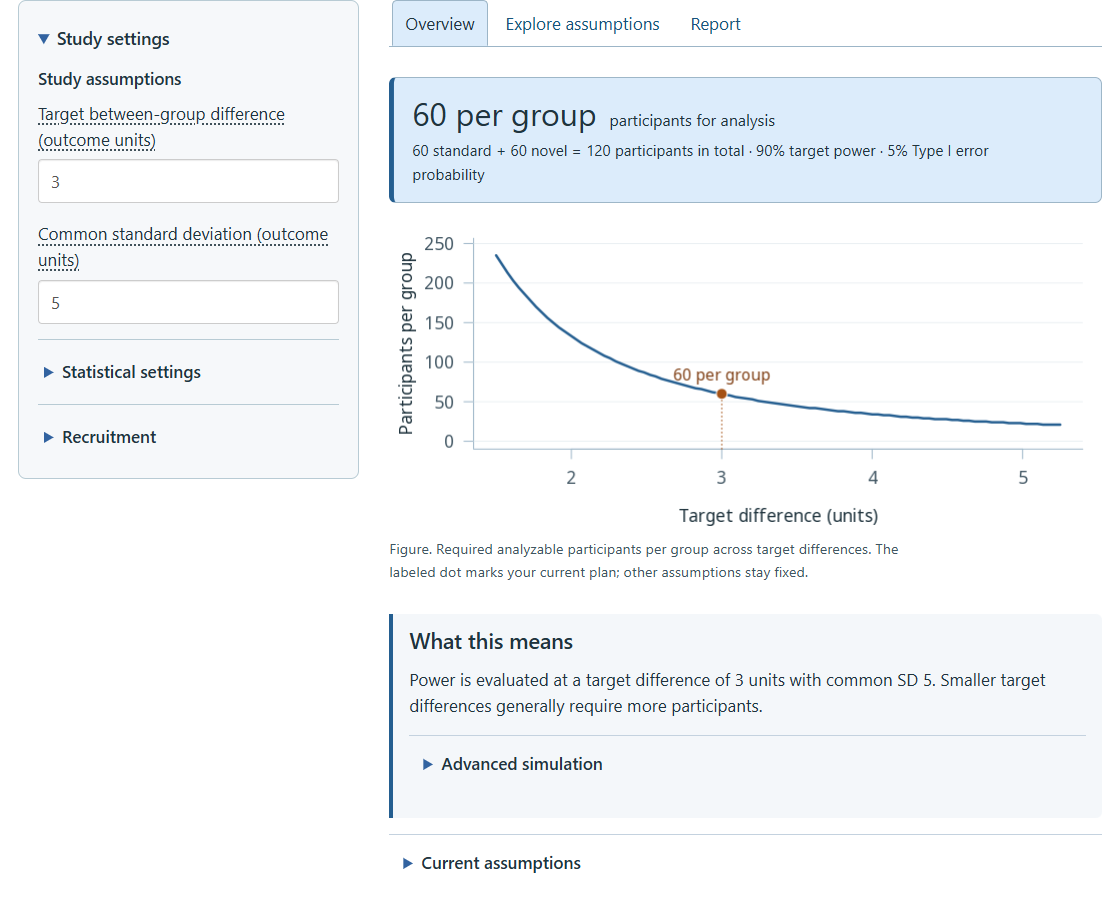
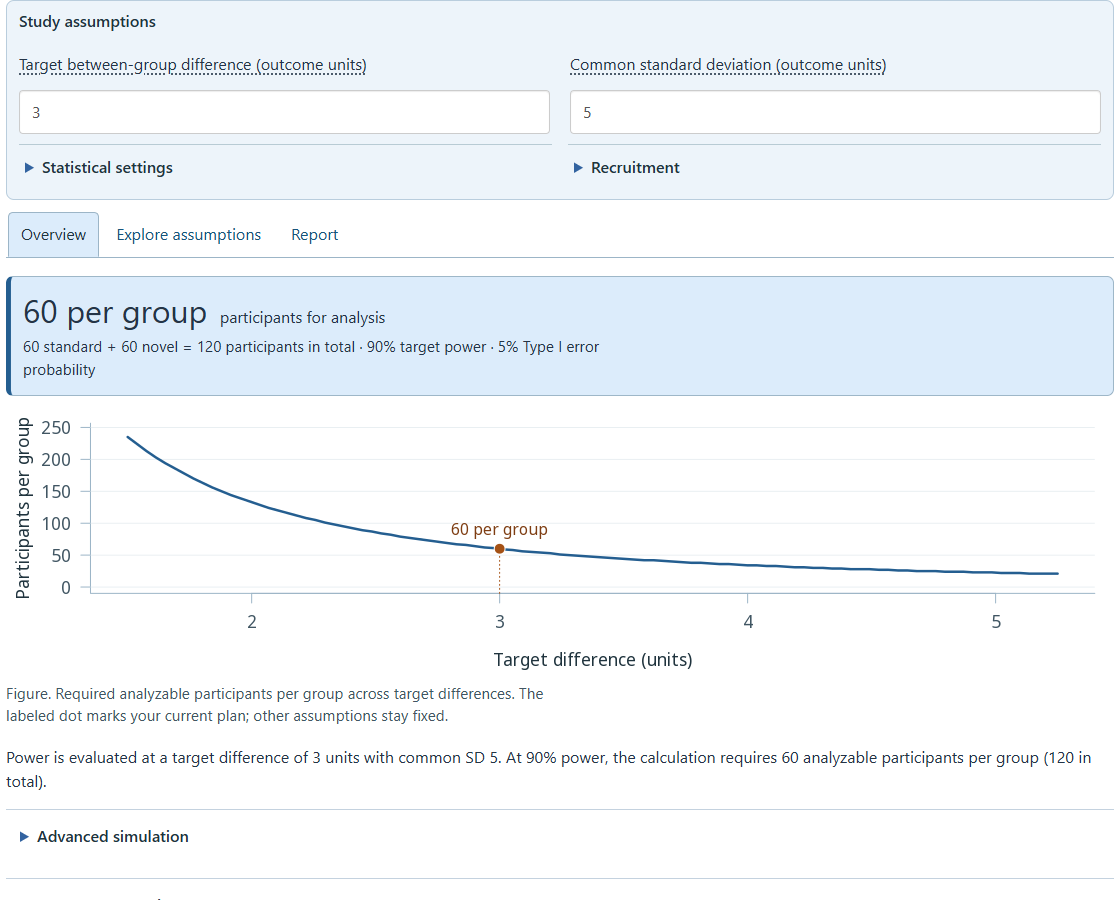
Embed remaining calculators with compact controls and reactive results

diff --git a/site/inline-app-client.js b/site/inline-app-client.js
@@ -1,11 +1,12 @@
-/* Compact presentation and intrinsic height for the two tutorial embeds. MIT. */
+/* Compact presentation and intrinsic height for the tutorial's Shiny apps. MIT. */
 (() => {
-  let shell = window, host = null, origin = null, embedded = false;
+  let shell = window, host = null, origin = null, embedded = false, engine = '';
   try {
     while (shell) {
       const url = new URL(shell.location.href);
-      if (url.searchParams.get('embedded') === '1' &&
-          /\/(two_proportions|power_explorer)\/(?:index\.html)?$/.test(url.pathname)) {
+      const match = url.pathname.match(/\/(two_proportions|two_means|power_explorer|dropout_adjustment|prevalence_precision|sampling_distributions)\/(?:index\.html)?$/);
+      if (url.searchParams.get('embedded') === '1' && match) {
+        engine = match[1];
         embedded = true; origin = url.origin;
         if (shell !== shell.parent && shell.frameElement?.hasAttribute('data-inline-frame')) host = shell.parent;
         break;
@@ -16,6 +17,7 @@
   } catch (_) { /* The normal standalone app remains available. */ }
   if (!embedded) return;
   document.documentElement.classList.add('tutorial-embedded');
+  document.documentElement.dataset.inlineEngine = engine;
   const send = payload => { if (host) host.postMessage({type: 'sample-size:inline', ...payload}, origin); };
   let pending, previous = 0, ready = false;
   function measure() {
@@ -30,9 +32,57 @@
     }, 100);
   }
   function init() {
+    compactControls();
     const content = document.querySelector('body > .container-fluid');
     if (content) new ResizeObserver(measure).observe(content);
     measure();
+  }
+  function compactControls() {
+    // Move existing controls, preserving their Shiny bindings and help. The
+    // numerical procedures and the dedicated-page layouts are unchanged.
+    const well = document.querySelector('.well');
+    if (!well || well.dataset.inlineOrganized) return;
+    well.dataset.inlineOrganized = 'true';
+    const field = id => {
+      const input = document.getElementById(id);
+      // The wrapper carries percentage units for the slider and number field.
+      return input?.closest('.percentage-slider') || input?.closest('.shiny-input-container');
+    };
+    if (engine === 'prevalence_precision') {
+      const more = document.createElement('details'); more.className = 'inline-secondary';
+      const heading = document.createElement('summary'); heading.textContent = 'Example and planning goal';
+      more.append(heading);
+      for (const node of [field('case_id'), document.getElementById('load_case'), field('goal')]) if (node) more.append(node);
+      well.append(more);
+    }
+    if (engine === 'sampling_distributions') {
+      const assumptions = well.querySelector('section.app-input-group');
+      const settings = well.querySelector('details.app-input-group');
+      if (settings && assumptions) {
+        for (const node of [document.getElementById('load_case'), field('mu0')]) if (node) settings.append(node);
+        const alpha = field('alpha'); if (alpha) assumptions.append(alpha);
+      }
+    }
+    if (engine === 'dropout_adjustment') {
+      const overview = document.querySelector('.tab-pane[data-value="Overview"]');
+      const steps = document.getElementById('recruitment_steps');
+      const plot = document.getElementById('dropout_plot');
+      const caption = document.getElementById('plot_caption');
+      if (overview && steps && plot) {
+        const figure = document.createElement('div'); figure.className = 'inline-recruitment-figure';
+        figure.append(plot); if (caption) figure.append(caption); steps.after(figure);
+      }
+    }
+    if (engine === 'power_explorer') {
+      for (const [figureId, textId] of [['planning_plot','overview_text'],['distribution','many_text']]) {
+        const figure = document.getElementById(figureId), text = document.getElementById(textId);
+        if (figure && text) figure.after(text);
+      }
+    }
+    for (const id of ['interpretation','precision_text','explanation','overview_text','recruitment_interpretation','precision-interpretation']) {
+      const result = document.getElementById(id);
+      if (result && !result.matches('input,textarea')) result.classList.add('inline-result-text');
+    }
   }
   document.addEventListener('DOMContentLoaded', init);
   document.addEventListener('toggle', measure, true);

diff --git a/site/inline-app.css b/site/inline-app.css
@@ -47,3 +47,40 @@
 @media(max-width:520px){.tutorial-embedded .well > section.app-input-group,.tutorial-embedded .well:has(> section.app-input-group){grid-template-columns:1fr}.tutorial-embedded .container-fluid{padding:8px}.tutorial-embedded .nav-tabs > li > a{padding:10px 8px}.tutorial-embedded #sampling-journey{min-width:0}.tutorial-embedded.pain-focus:not(.single-population-mode) .well{grid-template-columns:1fr}.tutorial-embedded details.activity-description,.tutorial-embedded details.app-resume{width:100%}}
 
 .tutorial-embedded #simulation_target {margin:8px 0 12px}.tutorial-embedded #simulation_target p{margin:0 0 8px}.tutorial-embedded.pain-focus #fixed_n{max-width:220px}
+
+/* The primary controls form a short strip above the results and figures. */
+.tutorial-embedded .well {gap:8px 18px}
+.tutorial-embedded .well .form-group {margin-bottom:6px}
+.tutorial-embedded .well label {font-size:1rem;line-height:1.35;margin-bottom:5px}
+.tutorial-embedded .well .irs {margin-top:0}
+.tutorial-embedded .well .app-input-group {margin-top:0}
+.tutorial-embedded .inline-secondary {grid-column:1/-1;margin:2px 0;padding:0}
+.tutorial-embedded .inline-secondary > summary {min-height:44px;padding:10px 0;cursor:pointer}
+.tutorial-embedded .inline-secondary[open] {display:block}
+.tutorial-embedded .inline-secondary .shiny-input-container {max-width:380px}
+.tutorial-embedded .inline-result-text {margin:10px 0;line-height:1.5}
+.tutorial-embedded .app-interpretation {border:0;background:transparent;padding:0}
+.tutorial-embedded #case_title {display:none}
+.tutorial-embedded[data-inline-engine="dropout_adjustment"] .well {display:grid;grid-template-columns:repeat(2,minmax(0,1fr))}
+.tutorial-embedded[data-inline-engine="dropout_adjustment"] .well > details {grid-column:1/-1}
+.tutorial-embedded[data-inline-engine="dropout_adjustment"] .inline-recruitment-figure {margin:10px 0}
+.tutorial-embedded[data-inline-engine="prevalence_precision"] .well:has(> section.app-input-group) {grid-template-columns:repeat(3,minmax(0,1fr))}
+.tutorial-embedded[data-inline-engine="prevalence_precision"] .well > section.app-input-group {display:contents}
+.tutorial-embedded[data-inline-engine="prevalence_precision"] .well > section.app-input-group > h3 {display:none}
+.tutorial-embedded[data-inline-engine="prevalence_precision"] .well > details {grid-column:1/-1}
+.tutorial-embedded[data-inline-engine="sampling_distributions"] .well > section.app-input-group {grid-template-columns:repeat(2,minmax(0,1fr))}
+.tutorial-embedded .single-population-inputs {display:grid;grid-template-columns:repeat(2,minmax(0,1fr))}
+.tutorial-embedded .single-population-inputs > .shiny-input-container {order:0}
+.tutorial-embedded .single-population-inputs > .shiny-panel-conditional {order:1;grid-column:1/-1;display:grid;grid-template-columns:repeat(2,minmax(0,1fr));gap:8px 18px}
+.tutorial-embedded .single-population-inputs > details {order:2;grid-column:1/-1;margin:0}
+.tutorial-embedded #planning_plot,.tutorial-embedded #sample_plot,.tutorial-embedded #dropout_plot {height:310px!important}
+.tutorial-embedded #distributions {height:500px!important}
+.tutorial-embedded .app-steps {margin:8px 0;gap:8px}
+@media(max-width:600px){
+ .tutorial-embedded .well,.tutorial-embedded .well > section.app-input-group,
+ .tutorial-embedded[data-inline-engine="prevalence_precision"] .well:has(> section.app-input-group),
+ .tutorial-embedded[data-inline-engine="dropout_adjustment"] .well,
+ .tutorial-embedded[data-inline-engine="sampling_distributions"] .well > section.app-input-group,
+ .tutorial-embedded .single-population-inputs,.tutorial-embedded .single-population-inputs > .shiny-panel-conditional {grid-template-columns:1fr}
+ .tutorial-embedded .well {gap:6px}
+}

diff --git a/module/inline-apps.js b/module/inline-apps.js
@@ -2,7 +2,14 @@
 (() => {
   if (window.SampleSizeInlineAppsInstalled) return;
   window.SampleSizeInlineAppsInstalled = true;
-  const allowed = {pain_one_many: 'power_explorer', probiotics_calculation: 'two_proportions'};
+  const allowed = {
+    pain_one_many:'power_explorer', probiotics_calculation:'two_proportions',
+    rehabilitation_calculation:'two_means', recruitment:'dropout_adjustment',
+    recruitment_advanced:'dropout_adjustment', prevalence:'prevalence_precision',
+    pilot_feasibility:'prevalence_precision', mean_precision:'power_explorer',
+    pain_curves:'power_explorer', pain_simulation:'power_explorer',
+    alpha_beta:'sampling_distributions'
+  };
   const windows = new Map();
   // Event bindings cannot be serialized with the complete HTML export.
   // Track them in this page's runtime rather than in a copied DOM attribute.

diff --git a/teaching/TEACHING_GUIDE.md b/teaching/TEACHING_GUIDE.md
@@ -5,7 +5,7 @@ The [activity walkthroughs](../student-materials/activity-walkthroughs.html) des
 
 The module teaches sample size as a justified research-design decision. Activities combine predictions, app-based exploration and interpretation of results. A session can begin with a clinical question and end with an explanation of what the planned study could establish. The guided group activities below are optional teaching arrangements; independent learners can use the tutorial and its chapter quizzes on their own.
 
-The chronic pain case compares fictional Neravixa with duloxetine for painful diabetic peripheral neuropathy. Each patient contributes one four-week outcome: achieved pain relief or did not achieve pain relief. The pilot remains 7 of 10 versus 3 of 10; the calculation uses population assumptions of 60% versus 30%. Compact app previews in the tutorial open the existing tutorial-and-app view.
+The chronic pain case compares fictional Neravixa with duloxetine for painful diabetic peripheral neuropathy. Each patient contributes one four-week outcome: achieved pain relief or did not achieve pain relief. The pilot remains 7 of 10 versus 3 of 10; the calculation uses population assumptions of 60% versus 30%. Selecting a calculator or simulation preview opens the app within the chapter, with its main controls above the figure and a link to its own page underneath. Closing and reopening the embedded app preserves its inputs during that page visit.
 
 ## Preparation and access
 
@@ -15,7 +15,7 @@ For a pilot, the [observation notes](pilot_observation_notes.html#optional-page-
 
 Learners should know sample versus population, binary versus continuous outcomes, and the basic purpose of a statistical test. The estimation chapter introduces confidence intervals. Send the case, short concept notes and access link in advance. Provide the complete tutorial HTML/PDF and `static_activity.md` with prepared outputs as alternatives to live apps. Formulas and formatted results remain visible; expandable R code and output support reproducibility and further learning.
 
-The apps keep the main result visible while secondary settings can remain closed. Learners can drag sliders or type values on the displayed scale; percentage fields use 5 for 5%. The introductory pain activity begins with three views, with the rest available through “Additional calculations and simulations.” For independent practice, the flashcard table can hide answers until requested. The study-plan form shows completion counts and a live report beside the questions when the screen is wide enough.
+The apps keep the main result visible while secondary settings can remain closed. Learners can drag sliders or type values on the displayed scale; percentage fields use 5 for 5%. Calculated results update with the inputs. Simulated results update when learners run another simulation and retain the assumptions used for that run. The introductory pain activity brings one study and many studies together, with a separate report view and optional further calculations. For independent practice, the flashcard table can hide answers until requested. The study-plan form shows completion counts and a live report beside the questions when the screen is wide enough.
 
 Before a larger classroom session, an initial usability pilot with about five learners can identify unclear tasks and navigation problems. The [pilot observation notes](pilot_observation_notes.md) provide a task-based protocol. After revision, a class of 20–25 can work in pairs or groups of 3–4, rotating the roles of explaining, checking assumptions and recording. The teacher should check the deployment environment and keyboard access, supply readable static alternatives and identify invented case values as hypothetical.
 

diff --git a/student-materials/activity-walkthroughs.md b/student-materials/activity-walkthroughs.md
@@ -10,7 +10,7 @@ In the reasoning lab, planning tables and curves update when inputs change. Simu
 
 The difference observed in previous data records a sample result that can inform planning, with uncertainty. It can equal the target difference or clinical threshold; the three roles have no fixed numerical order and each needs justification. With “Same as planning assumptions” selected, the simulations use the target difference and planning event probabilities. A custom population scenario lets you examine another true difference without changing the original plan. All treatment differences here are between-group differences.
 
-The chronic pain case compares fictional Neravixa with duloxetine for painful diabetic peripheral neuropathy. Each patient contributes one four-week outcome: achieved pain relief or did not achieve pain relief. The pilot remains 7 of 10 versus 3 of 10; the calculation uses population assumptions of 60% versus 30%. Compact app previews in the tutorial open the existing tutorial-and-app view.
+The chronic pain case compares fictional Neravixa with duloxetine for painful diabetic peripheral neuropathy. Each patient contributes one four-week outcome: achieved pain relief or did not achieve pain relief. The pilot remains 7 of 10 versus 3 of 10; the calculation uses population assumptions of 60% versus 30%. Selecting a calculator or simulation preview opens the app within the chapter. Its main controls sit above the figure, and the result text updates with the calculation. A link underneath opens the app on its own page. Closing and reopening an embedded app preserves its inputs during that page visit.
 
 ## The four-activity core route
 

diff --git a/site/apps.md b/site/apps.md
@@ -2,6 +2,8 @@
 
 Apps are interactive software. Activities provide questions and exercises to help you use them. The [four core activities](book/#core-route) use the apps below. The continuing report brings their results together; advanced options support further exploration.
 
+Calculators and simulations also open within the tutorial when you select their previews. Main controls appear above the figures, and calculated results update with the inputs. Simulations run when you select the corresponding button. Each embedded app has a link underneath to open it on its own page.
+
 <span id="core-calculations-simulation-and-justification"></span>
 
 ## Core apps
